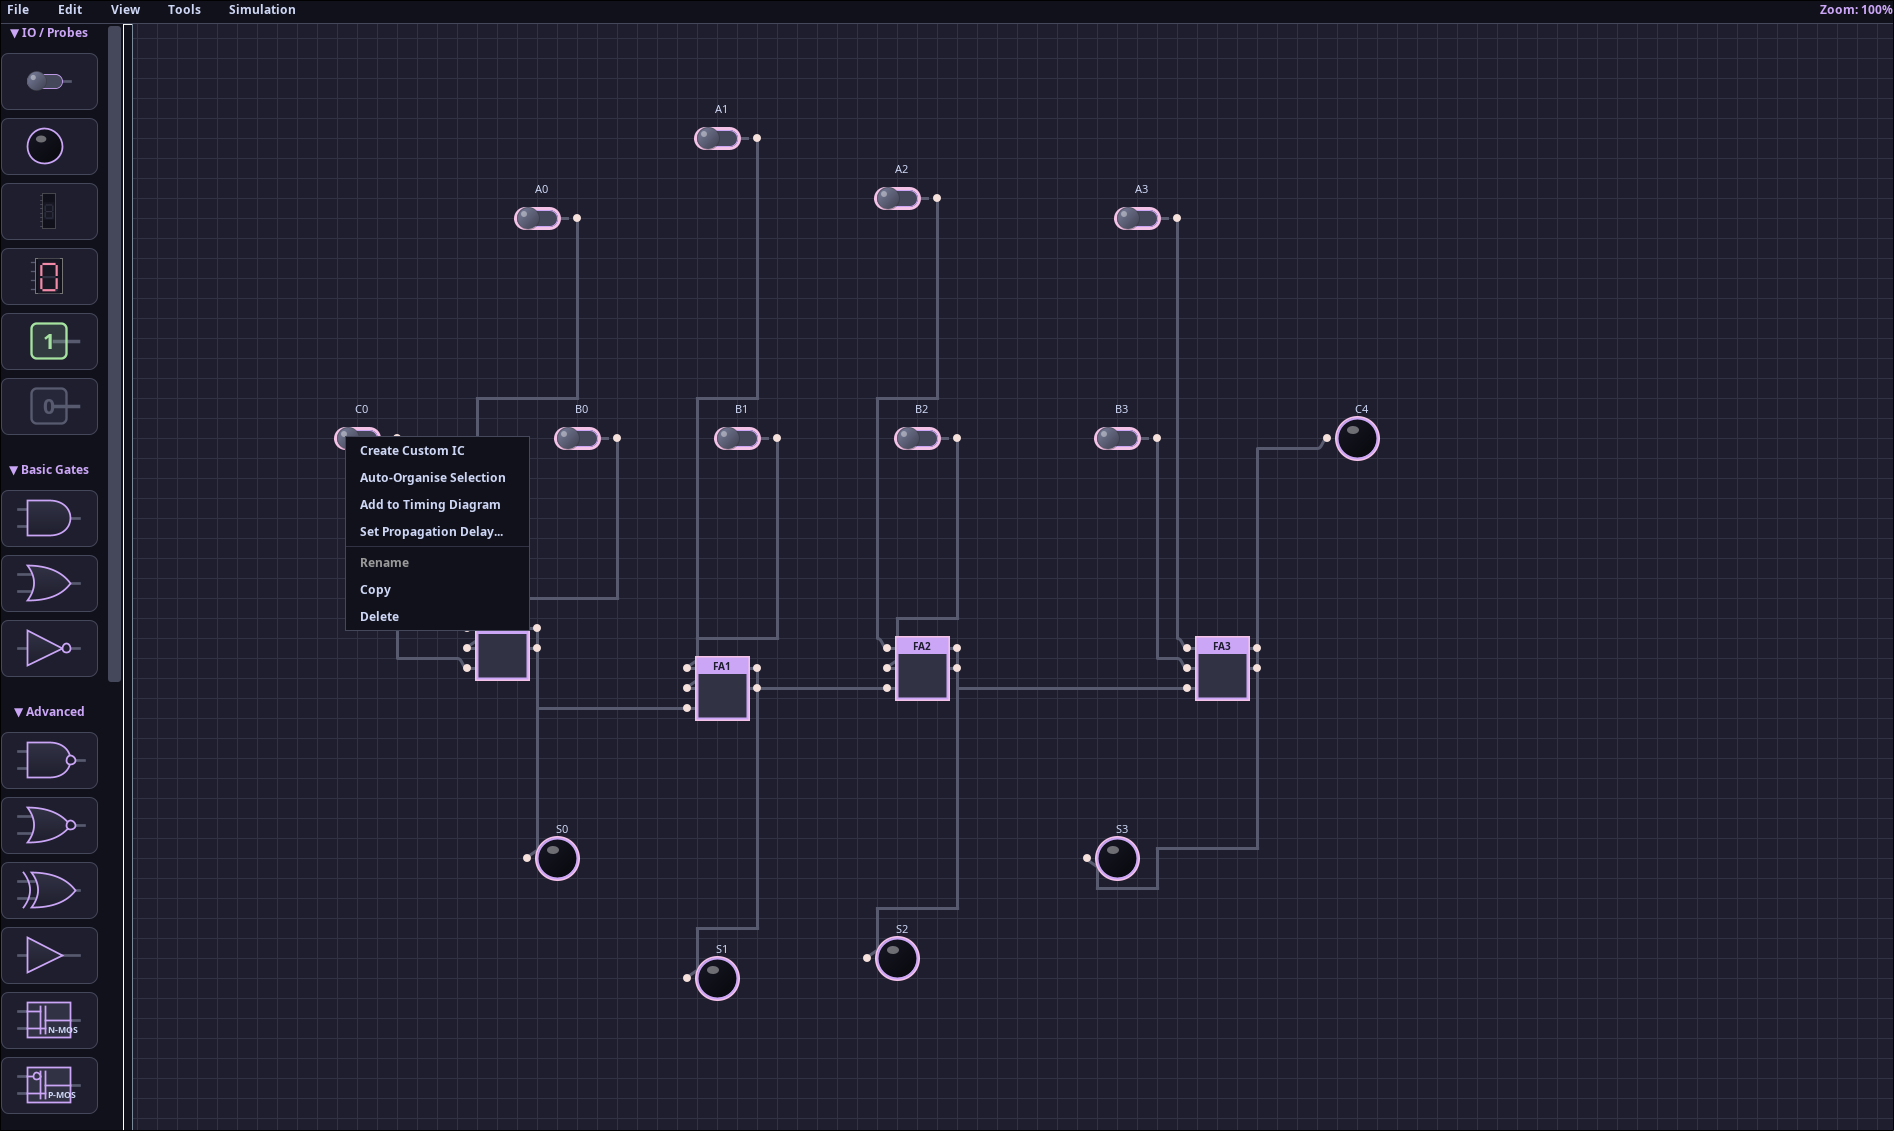
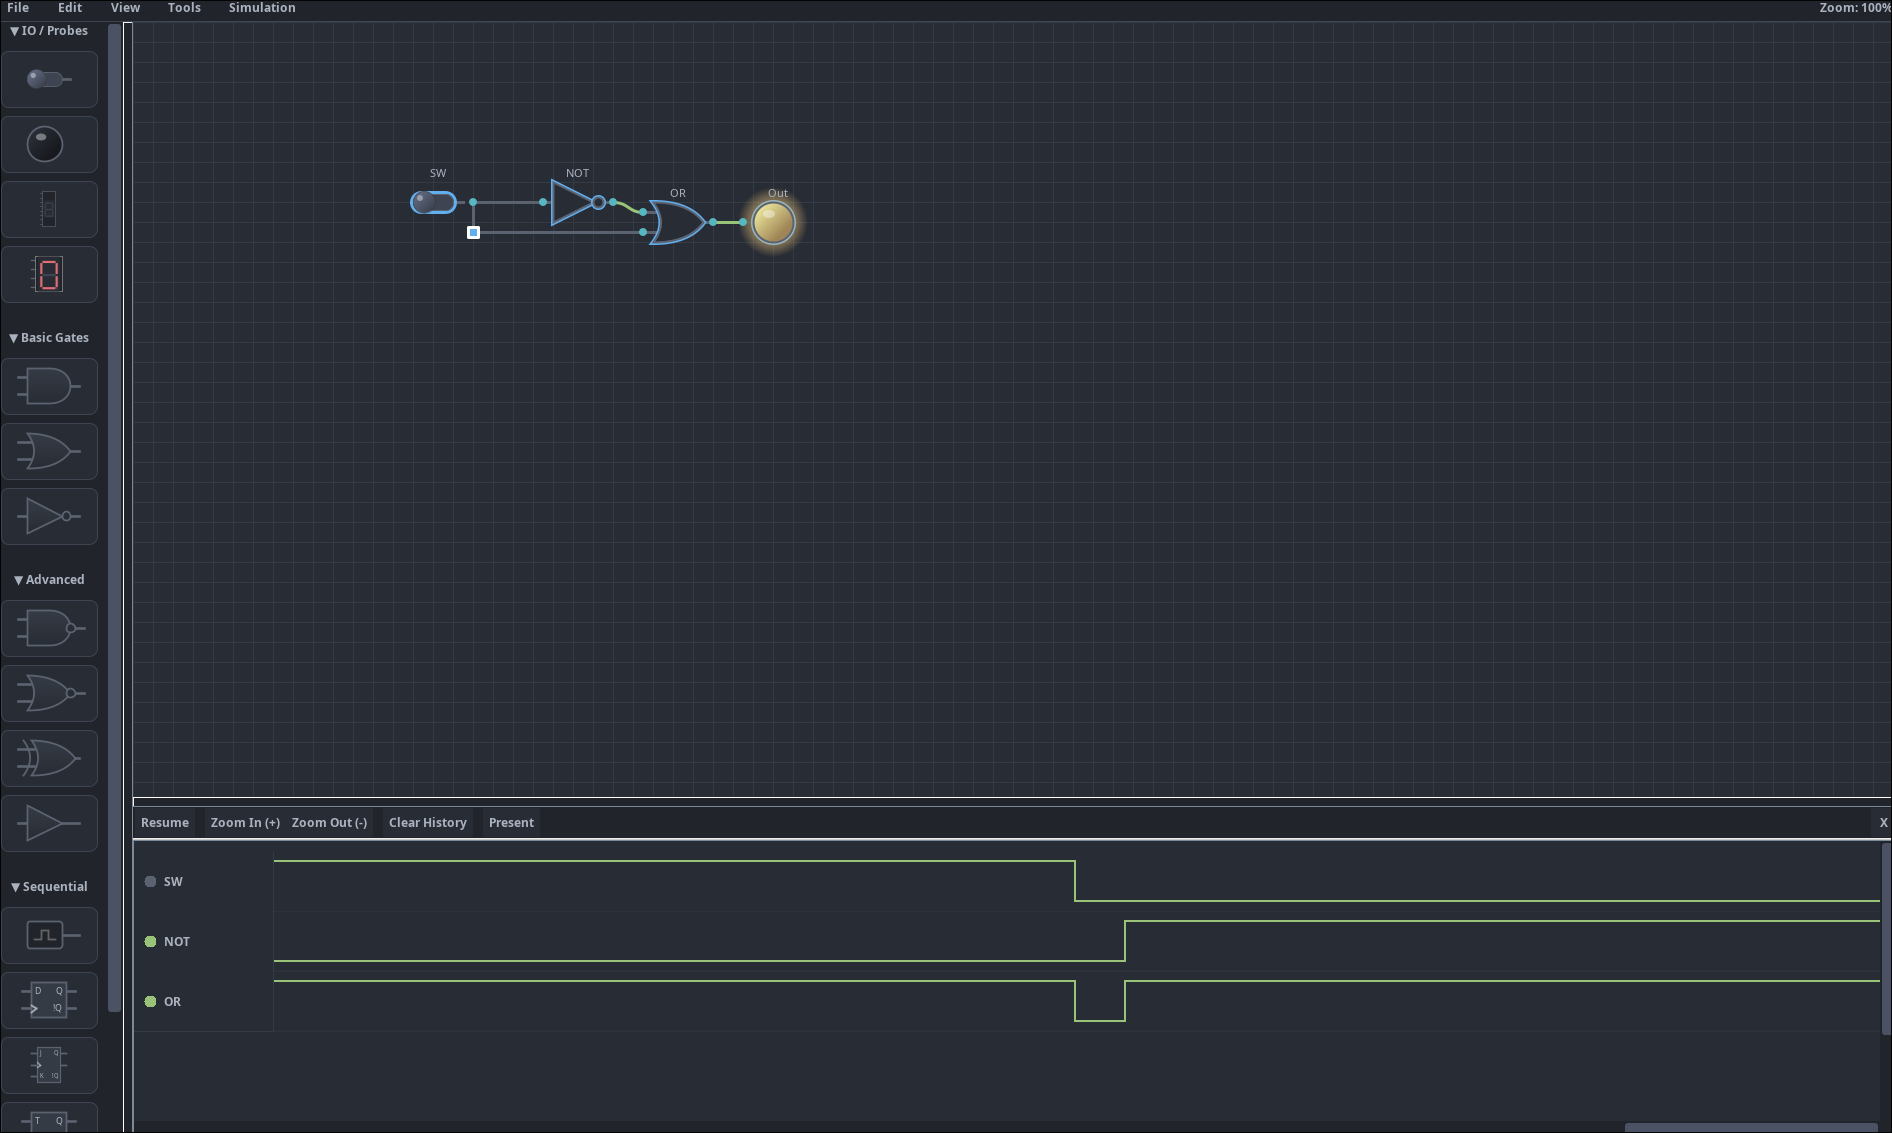
style: correct all screenshot assignments in gallery and hero

diff --git a/docs/index.html b/docs/index.html
@@ -160,7 +160,7 @@
                     <div class="gallery-caption">Real-time Timing Analysis</div>
                 </div>
                 <div class="gallery-item">
-                    <img src="screenshot.png" alt="Auto Organise & Themes">
+                    <img src="auto_organise.png" alt="Auto Organise & Themes">
                     <div class="gallery-caption">Auto-Organise & Themes</div>
                 </div>
             </div>